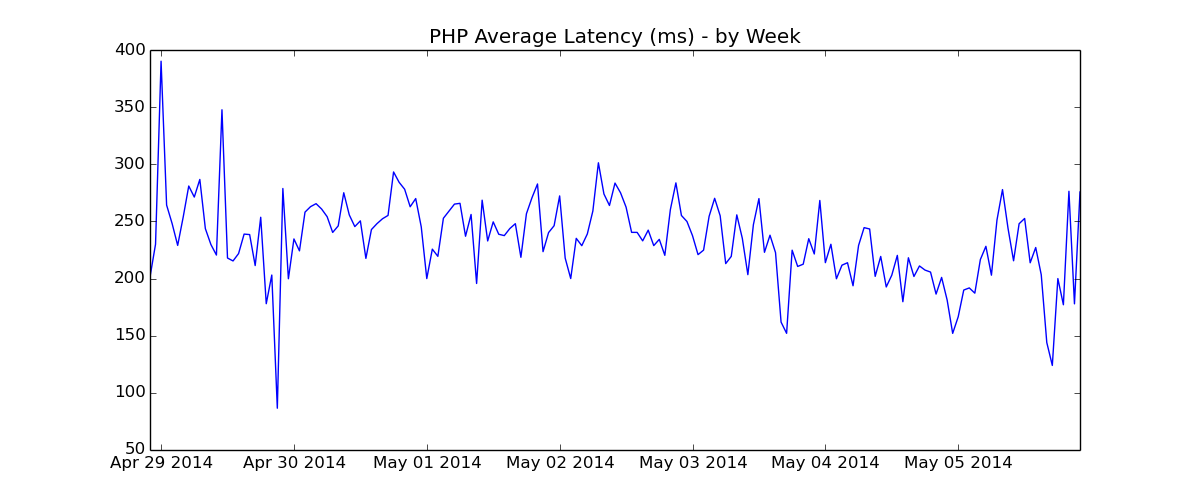
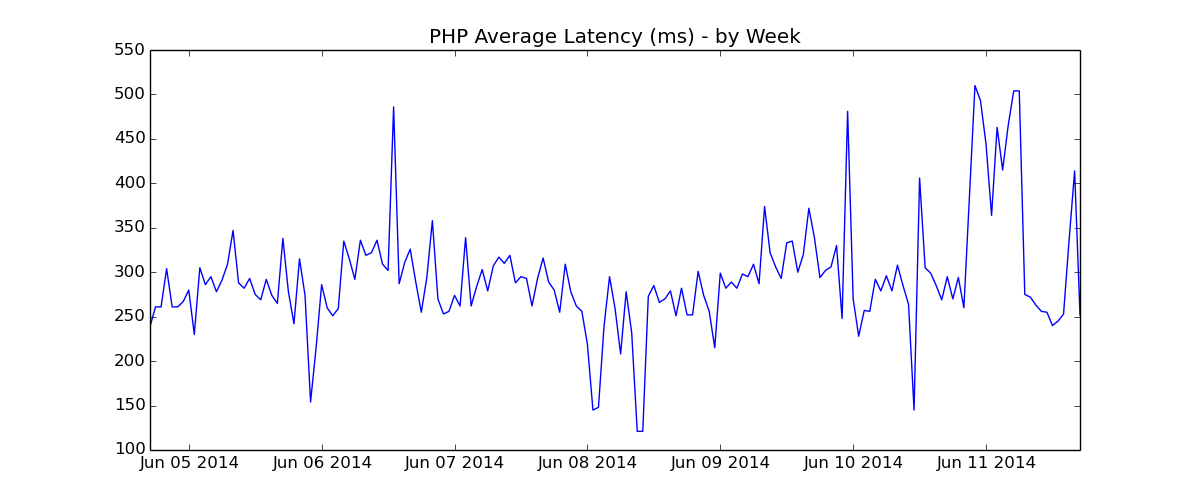
Update python-traceview article.

Changed region(s): [[0.0925, 0.15, 0.925, 0.87], [0.0925, 0.87, 0.8633, 0.96], [0.0925, 0.09, 0.1233, 0.12]]

diff --git a/python-traceview/README.md b/python-traceview/README.md
@@ -75,25 +75,24 @@ from datetime import datetime
 import matplotlib.pyplot as plt
 import traceview
 
+API_KEY = 'API KEY HERE'
+
 def main():
-    tv = traceview.TraceView('API KEY HERE')
-    results = tv.server.latency_series(app='Default', layer='PHP', time_window='week')
+    tv = traceview.TraceView(API_KEY)
+    results = tv.server.latency_by_layer('Default', time_window='week')
+
+    # get the php layer dictionary
+    php = next((x for x in results if x.get('layer') == 'PHP'), None)
 
     # convert timestamps to datetime objects
-    dates = [datetime.utcfromtimestamp(i[0]) for i in results['items']]
+    dates = [datetime.utcfromtimestamp(i[0]) for i in php['timeseries']['items']]
 
-    # handle the php average latency
-    php_average_latency = []
-    for item in results['items']:
-        average_latency = item[2]
-        if average_latency:
-            php_average_latency.append(average_latency / 1000) # convert to milliseconds
-        else:
-            php_average_latency.append(0)
+    # calculate average latency and convert to milliseconds
+    average_latency = [((i[2] / i[1]) / 1000) for i in php['timeseries']['items']]
 
     # create a matplotlib plot
     plt.figure(figsize=(12, 5), dpi=80)
-    plt.plot(dates, php_average_latency)
+    plt.plot(dates, average_latency)
     plt.title('PHP Average Latency (ms) - by Week')
     plt.savefig('latency.png')
 
